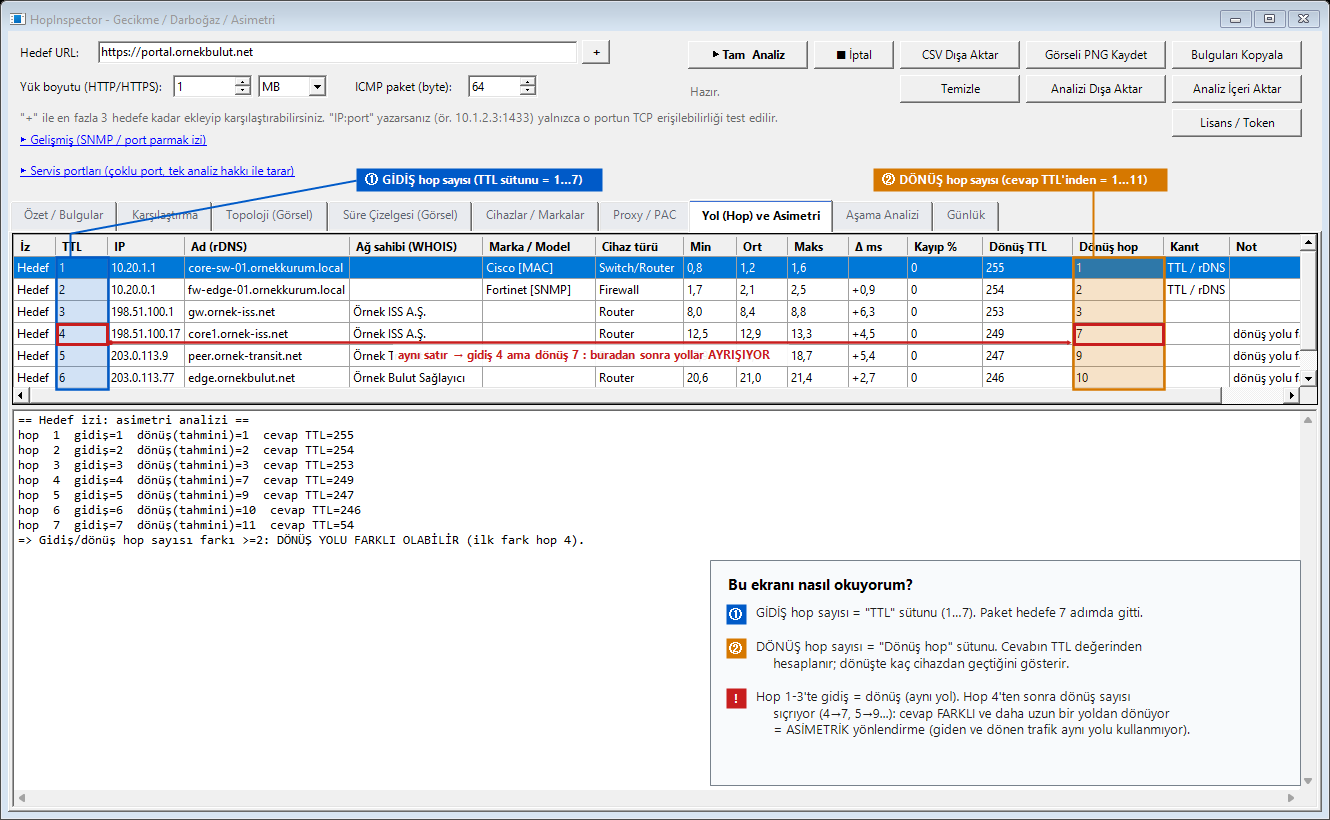
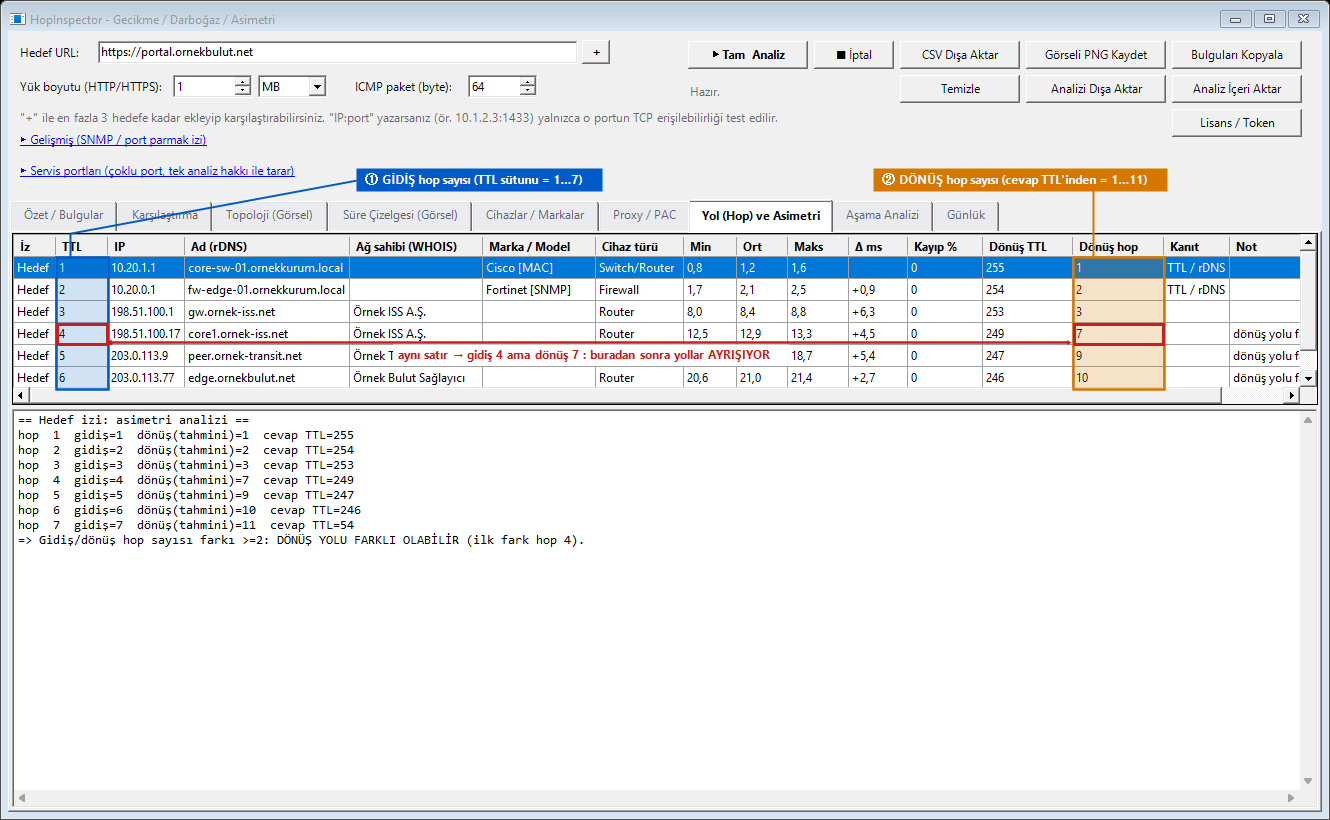
Asymmetry screenshot without legend box; plainer README wording

Changed region(s): [[0.5241, 0.7012, 0.894, 0.9146]]

diff --git a/README.md b/README.md
@@ -37,14 +37,13 @@ Karmaşık kurumsal ağlarda ("istemci → switch → firewall → proxy → SSL
 
 ![Özet / Bulgular](screenshots/summary-findings.png)
 
-**Yol (Hop) ve Asimetri sekmesi — gidiş ve dönüş yolu farkı:**
+**Yol (Hop) ve Asimetri sekmesi — gidiş ve dönüş aynı yoldan mı?**
 
 ![Asimetri](screenshots/asymmetry.png)
 
-- 🔵 **Gidiş hop sayısı:** "TTL" sütunu. Paket hedefe burada 7 adımda ulaşmış.
-- 🟠 **Dönüş hop sayısı:** "Dönüş hop" sütunu; cevabın TTL değerinden tahmin edilir (burada 1, 2, 3, 7, 9, 10, 11).
-- 🔴 **Ayrışma noktası:** Hop 1–3'te gidiş ve dönüş aynıdır. Hop 4'te gidiş 4 iken dönüş 7'ye sıçrar; cevap farklı ve daha uzun bir yoldan dönüyor demektir (**asimetrik yönlendirme**).
-- Dönüşte hangi cihazlardan geçildiği doğrudan görülemez; hop sayısı farkından çıkarım yapılır. Kesinleştirmek için karşı uçtan da iz alınması önerilir.
+Mavi sütun gidişte kaç hop attığınızı gösteriyor, burada 7. Turuncu sütun ise cevabın dönüşte kaç hop attığının tahmini; bunu cevap paketinin TTL değerine bakarak buluyoruz. İlk üç hopta ikisi de aynı, yani gidiş ve dönüş aynı yoldan. Dördüncü hopta gidiş 4 iken dönüş 7'ye zıplıyor. Cevap başka, daha uzun bir yoldan geri geliyor demek, yani trafik asimetrik.
+
+Dönüşte tam olarak hangi cihazlardan geçtiğini göremiyoruz, sadece hop sayısındaki farktan bunu çıkarıyoruz. Kesin emin olmak istiyorsanız karşı uçtan da bir iz almanızı öneririz.
 
 ### Mimari ilkeleri
 
@@ -89,14 +88,13 @@ In complex corporate networks (client → switch → firewall → proxy → SSL-
 - **Devices along the network path** — brand/model inference via traceroute + SNMP/MAC fingerprinting
 - **Service port scanning** — scan common enterprise services (Active Directory/LDAP, DNS, MSSQL, MySQL, Oracle, PostgreSQL, Redis, SMTP, RDP, SSH, WinRM, SMB) in a single click, using a single analysis credit
 
-**Path (Hop) & Asymmetry tab — forward vs. return path:**
+**Path (Hop) & Asymmetry tab: does the traffic come back the same way it went?**
 
 ![Asymmetry](screenshots/asymmetry.png)
 
-- 🔵 **Forward hop count:** the "TTL" column. Here the packet reaches the target in 7 hops.
-- 🟠 **Return hop count:** the "Dönüş hop" (return hop) column, estimated from the reply TTL (here 1, 2, 3, 7, 9, 10, 11).
-- 🔴 **Divergence point:** for hops 1–3 forward and return match. At hop 4 forward is 4 but return jumps to 7, meaning the reply comes back over a different, longer path (**asymmetric routing**).
-- The devices traversed on the return path cannot be seen directly; this is inferred from the hop-count difference. Taking a trace from the other end confirms it.
+The blue column is how many hops the packet took on the way out (7 here). The orange column is our estimate of how many hops the reply took on the way back, worked out from the TTL of the reply packet. For the first three hops both are the same, so the path is symmetric. At hop 4 the outbound count is 4 but the return count jumps to 7, which means the reply is coming back over a different, longer route. That's asymmetric routing.
+
+We can't see exactly which devices the reply went through, we only infer it from the difference in hop counts. If you need to be sure, take a trace from the other end too.
 
 *All server names, IP addresses, and findings shown in the screenshots above are entirely fictional sample data.*
 
